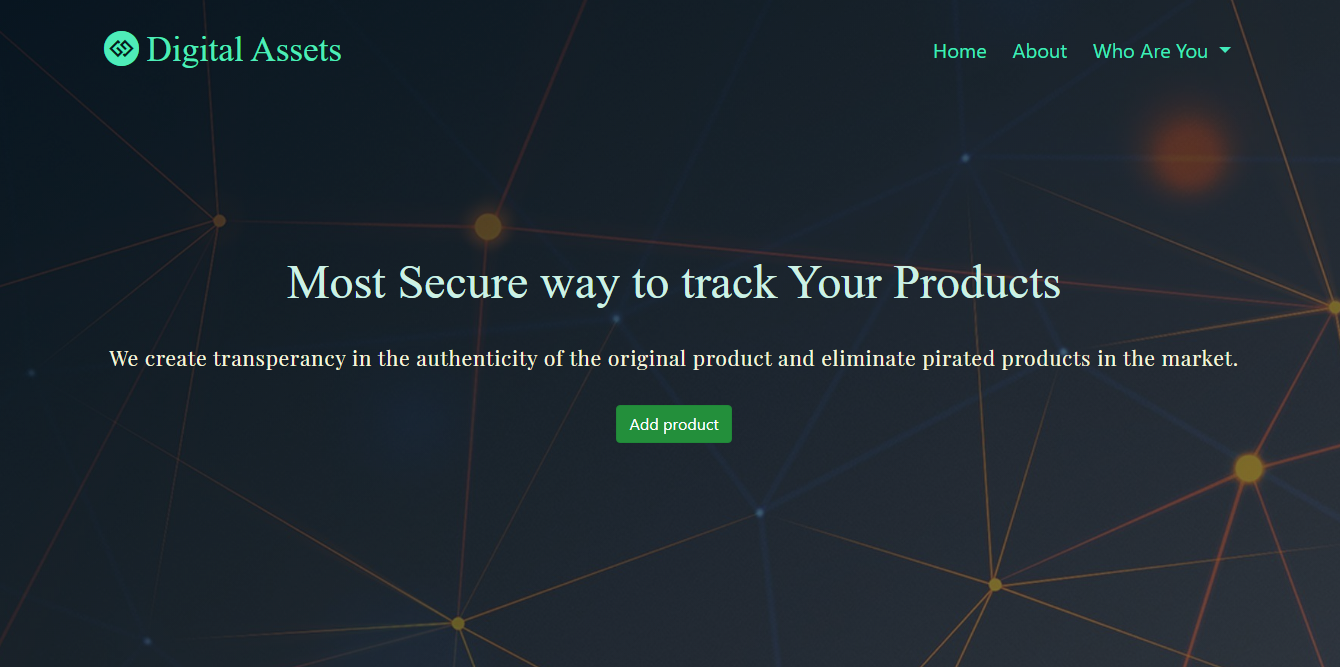
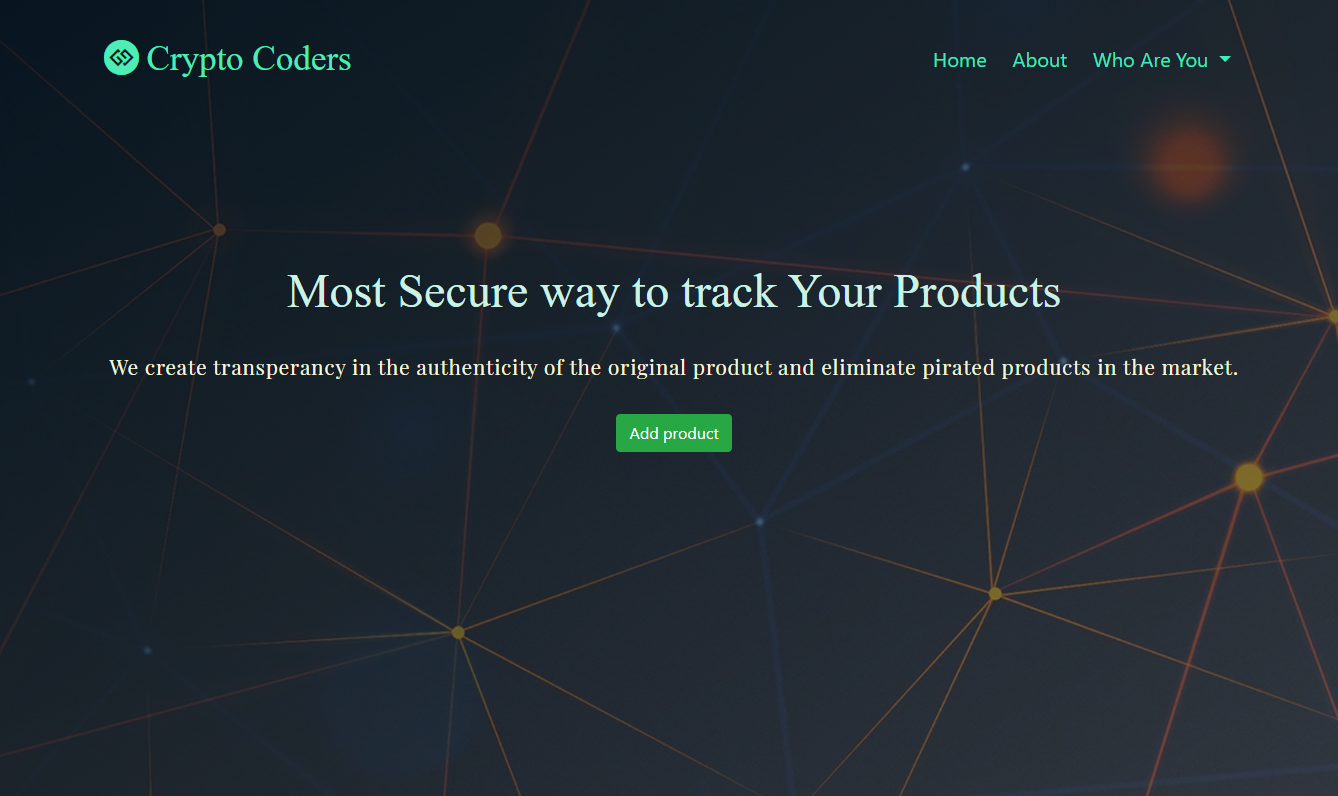
v2.0

diff --git a/index.html b/index.html
@@ -22,7 +22,7 @@
         <div class="container navcontainer" id="navcontainer">
             <nav class="navbar navbar-expand-sm">
                 <div class="left">
-                    <i class="fa fa-gg-circle" aria-hidden="true"></i> <a href="#">Digital Assets </a>
+                    <i class="fa fa-gg-circle" aria-hidden="true"></i> <a href="#">Crypto Coders </a>
                 </div>
 
                 <!------------------- Toggler/collapsibe Button -------------------------------------->
